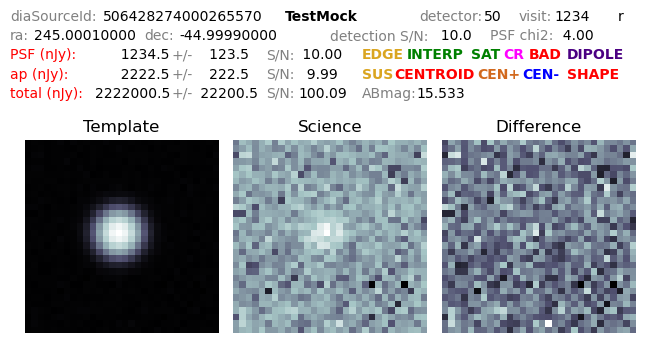
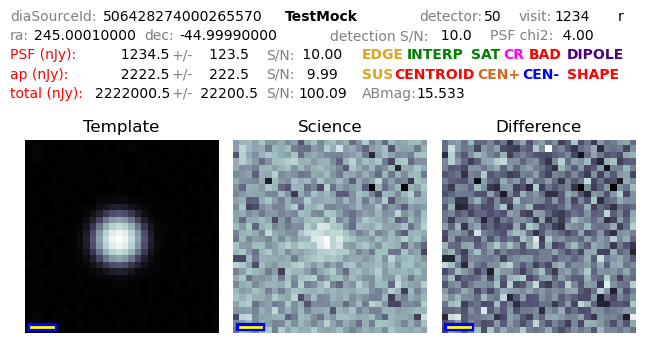
Add pixel scale to cutouts
Update docs and sample images to show new scale bar.

diff --git a/python/lsst/analysis/ap/zooniverseCutouts.py b/python/lsst/analysis/ap/zooniverseCutouts.py
@@ -166,7 +166,7 @@ class ZooniverseCutoutsTask(lsst.pipe.base.Task):
 
         @functools.lru_cache(maxsize=16)
         def get_exposures(instrument, detector, visit):
-            """Return science, template, difference exposures, and use a small
+            """Return science, template, difference exposures, using a small
             cache so we don't have to re-read files as often.
 
             NOTE: Closure because it needs access to the local-scoped butler,
@@ -194,6 +194,8 @@ class ZooniverseCutoutsTask(lsst.pipe.base.Task):
                     source["instrument"], source["detector"], source["visit"]
                 )
                 image = self.generate_image(science, template, difference, center,
+                scale = science.wcs.getPixelScale().asArcseconds()
+                image = self.generate_image(science, template, difference, center, scale,
                                             source=source if self.config.addMetadata else None,
                                             flags=flags[i] if self.config.addMetadata else None)
                 with open(
@@ -207,7 +209,7 @@ class ZooniverseCutoutsTask(lsst.pipe.base.Task):
                 )
         return result
 
-    def generate_image(self, science, template, difference, center, source=None, flags=None):
+    def generate_image(self, science, template, difference, center, scale, source=None, flags=None):
         """Get a 3-part cutout image to save to disk, for a single source.
 
         Parameters
@@ -220,6 +222,8 @@ class ZooniverseCutoutsTask(lsst.pipe.base.Task):
              Matched science minus template exposure to include in the cutout.
         center : `lsst.geom.SpherePoint`
             Center of the source to be cut out of each image.
+        scale : `float`
+            Pixel scale in arcseconds.
         source : `numpy.record`, optional
             DiaSource record for this cutout, to add metadata to the image.
         flags : `str`, optional
@@ -238,11 +242,12 @@ class ZooniverseCutoutsTask(lsst.pipe.base.Task):
             science.getCutout(center, size),
             template.getCutout(center, size),
             difference.getCutout(center, size),
+            scale,
             source=source,
             flags=flags
         )
 
-    def _plot_cutout(self, science, template, difference, source=None, flags=None):
+    def _plot_cutout(self, science, template, difference, scale, source=None, flags=None):
         """Plot the cutouts for a source in one image.
 
         Parameters
@@ -255,6 +260,8 @@ class ZooniverseCutoutsTask(lsst.pipe.base.Task):
              Cutout science minus template exposure to include in the image.
         source : `numpy.record`, optional
             DiaSource record for this cutout, to add metadata to the image.
+        scale : `float`
+            Pixel scale in arcseconds.
         flags : `str`, optional
             Unpacked bits from the ``flags`` field in ``source``.
 
@@ -286,7 +293,12 @@ class ZooniverseCutoutsTask(lsst.pipe.base.Task):
                     interval=aviz.MinMaxInterval(),
                     stretch=aviz.AsinhStretch(a=0.1),
                 )
-            ax.imshow(data, cmap=cm.bone, interpolation="none", norm=norm)
+            ax.imshow(data, cmap=cm.bone, interpolation="none", norm=norm,
+                      extent=(0, self.config.size, 0, self.config.size), origin="lower", aspect="equal")
+            x_line = 1
+            y_line = 1
+            ax.plot((x_line, x_line + 1.0/scale), (y_line, y_line), color="blue", lw=6)
+            ax.plot((x_line, x_line + 1.0/scale), (y_line, y_line), color="yellow", lw=2)
             ax.axis("off")
             ax.set_title(name)
 

diff --git a/tests/test_zooniverseCutouts.py b/tests/test_zooniverseCutouts.py
@@ -74,6 +74,7 @@ class TestZooniverseCutouts(lsst.utils.tests.TestCase):
         # source at the center of the image
         self.centroid = lsst.geom.Point2D(50, 50)
         dataset = lsst.meas.base.tests.TestDataset(bbox, crval=skyCenter)
+        self.scale = 0.3  # arbitrary arcseconds/pixel
         dataset.addSource(instFlux=1e5, centroid=self.centroid)
         self.science, self.scienceCat = dataset.realize(
             noise=1000.0, schema=dataset.makeMinimalSchema()
@@ -97,9 +98,7 @@ class TestZooniverseCutouts(lsst.utils.tests.TestCase):
             im.show()
         """
         cutouts = zooniverseCutouts.ZooniverseCutoutsTask()
-        cutout = cutouts.generate_image(
-            self.science, self.template, self.difference, skyCenter
-        )
+        cutout = cutouts.generate_image(self.science, self.template, self.difference, skyCenter, self.scale)
         with PIL.Image.open(cutout) as im:
             # NOTE: uncomment this to show the resulting image.
             # im.show()
@@ -114,9 +113,7 @@ class TestZooniverseCutouts(lsst.utils.tests.TestCase):
         config = zooniverseCutouts.ZooniverseCutoutsTask.ConfigClass()
         config.size = 100
         cutouts = zooniverseCutouts.ZooniverseCutoutsTask(config=config)
-        cutout = cutouts.generate_image(
-            self.science, self.template, self.difference, skyCenter
-        )
+        cutout = cutouts.generate_image(self.science, self.template, self.difference, skyCenter, self.scale)
         with PIL.Image.open(cutout) as im:
             # NOTE: uncomment this to show the resulting image.
             # im.show()
@@ -138,6 +135,7 @@ class TestZooniverseCutouts(lsst.utils.tests.TestCase):
                                         self.template,
                                         self.difference,
                                         skyCenter,
+                                        self.scale,
                                         source=DATA.iloc[0],
                                         flags=self.flags[0])
         with PIL.Image.open(cutout) as im:
@@ -152,6 +150,7 @@ class TestZooniverseCutouts(lsst.utils.tests.TestCase):
                                         self.template,
                                         self.difference,
                                         skyCenter,
+                                        self.scale,
                                         source=DATA.iloc[1],
                                         flags=self.flags[1])
         with PIL.Image.open(cutout) as im:

diff --git a/doc/lsst.analysis.ap/tasks/lsst.analysis.ap.ZooniverseCutoutsTask.rst b/doc/lsst.analysis.ap/tasks/lsst.analysis.ap.ZooniverseCutoutsTask.rst
@@ -75,6 +75,7 @@ An example cutout image is shown below, in the format that would be most commonl
 The two below examples show what is produced when the ``addMetadata`` config field is set.
 The first image shows a mocked image with no catalog flags set.
 The source id, instrument, detector, visit, and filter name are given on the top row.
+The pixel scale in arcseconds/pixel is shown as a small bar in the lower-left corner of each image.
 The ``PSF`` and ``ap`` flux fields are fluxes on the difference image, while the ``total`` flux field is the forced flux on the science image, and the AB magnitude computed from that forced flux.
 Note that there is no colored text; this would represent a likely good difference image source measurement.
 
